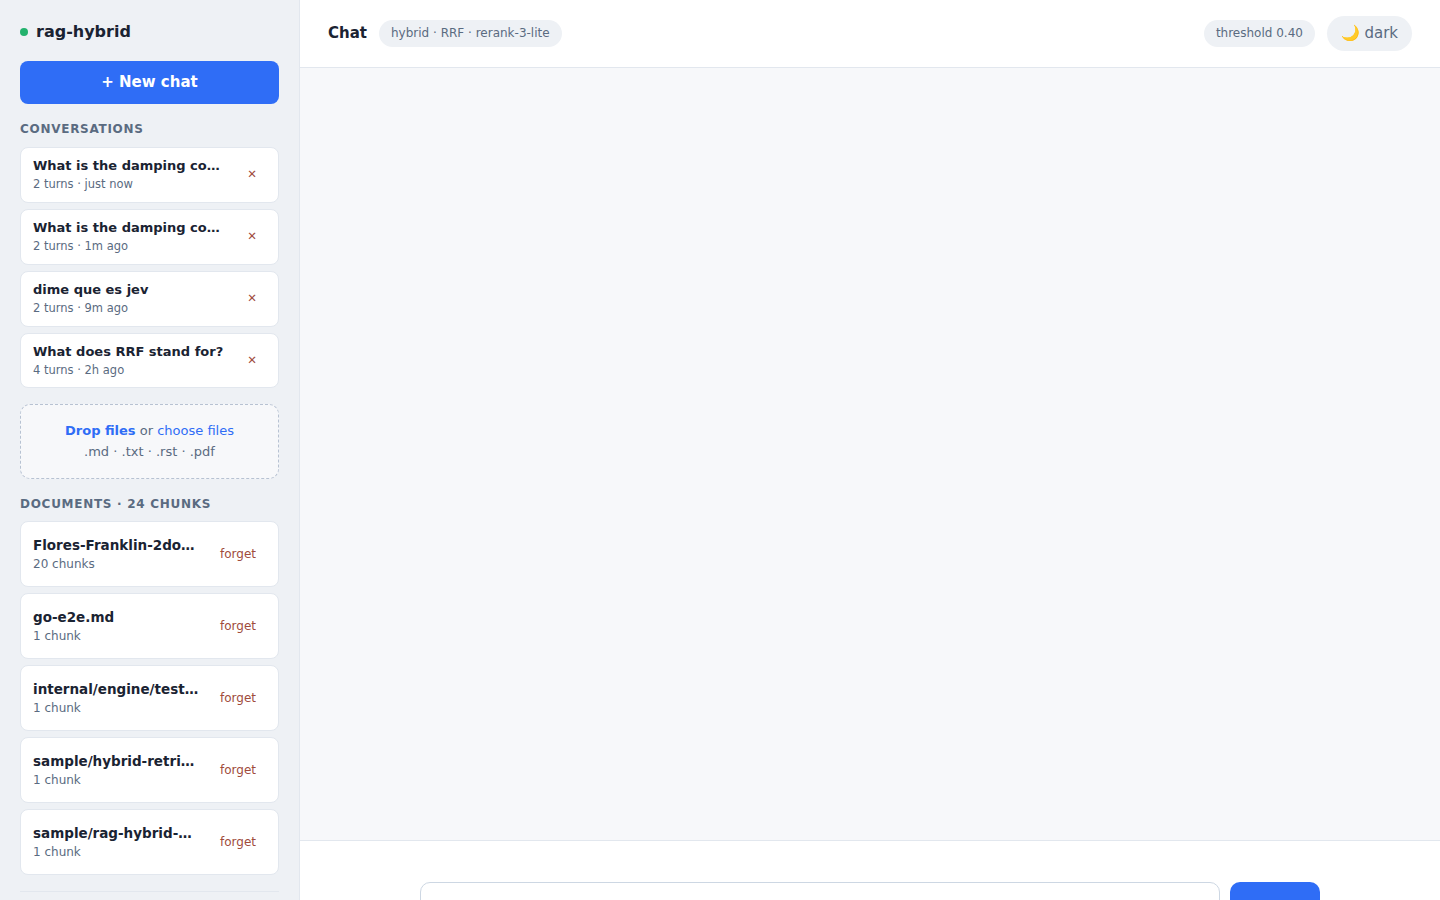
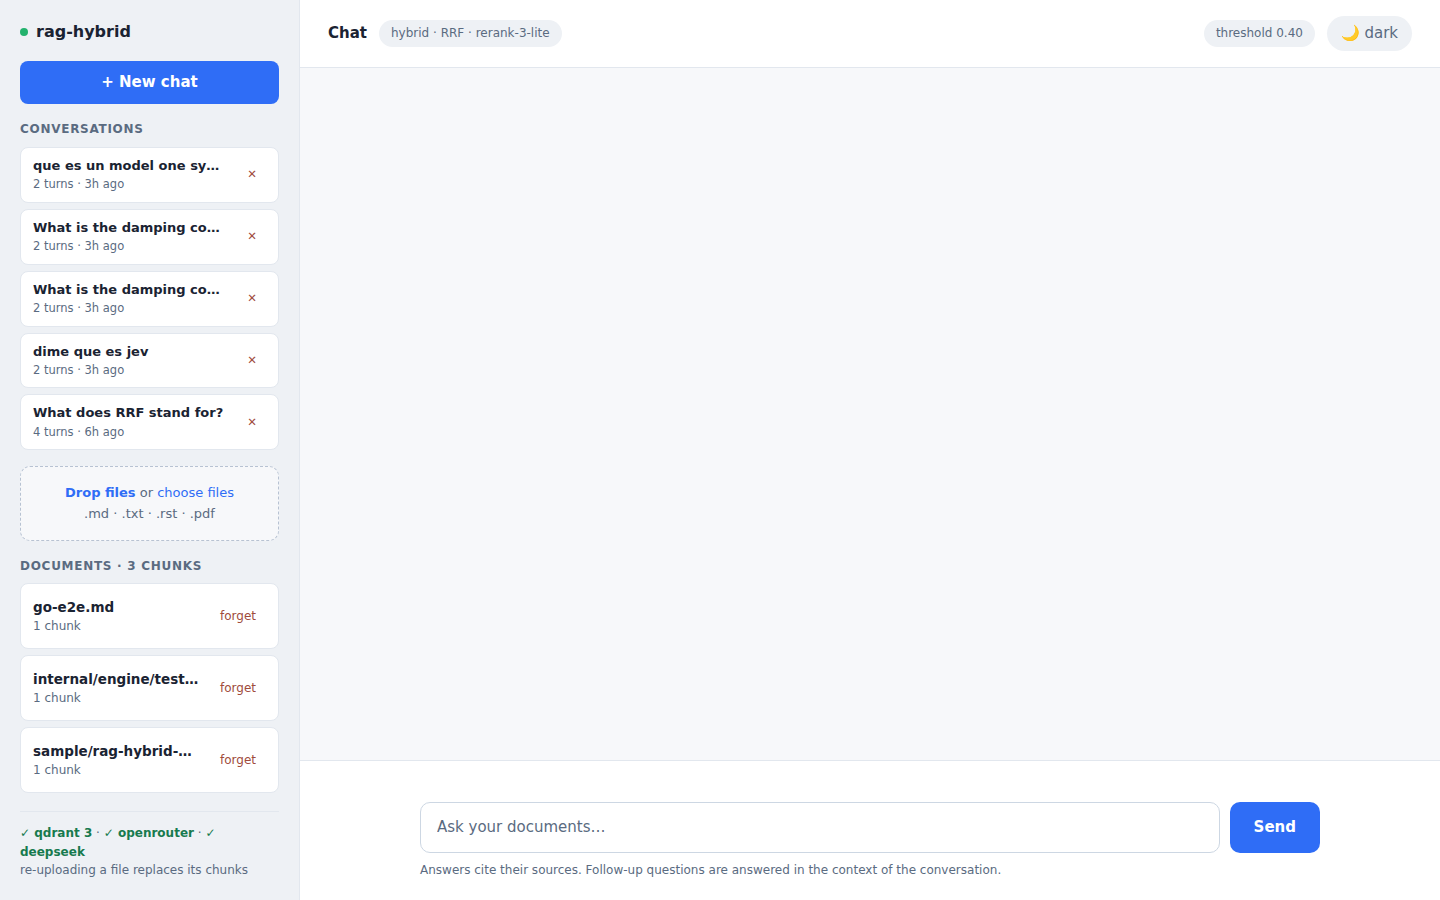
feat: type-to-confirm modal for destructive actions
Destructive UI actions (forget document, delete conversation) now open an
accessible confirmation dialog: the confirm button stays disabled until
the user types 'delete' (case-insensitive, trimmed). Escape and Cancel
close it, focus returns to the trigger, the input takes focus on open.
Also fixes a broken JS string literal from the previous patch (a Python
\n landed as a real newline inside the JS source, killing the whole UI
script; verified now with node --check + full Playwright interaction
test: modal opens, wrong word keeps it disabled, 'delete' enables,
cancel preserves data, confirm removes exactly one document).

diff --git a/internal/server/static/index.html b/internal/server/static/index.html
@@ -115,6 +115,19 @@
     padding: 12px; font-size: 12.5px; line-height: 1.5; white-space: pre-wrap;
     max-height: 300px; overflow-y: auto; margin-top: 8px;
   }
+  .overlay { position: fixed; inset: 0; background: rgba(10,16,28,.55); display: flex; align-items: center; justify-content: center; z-index: 20; }
+  .overlay[hidden] { display: none; }
+  .modal { background: var(--card); border: 1px solid var(--border); border-radius: 14px; padding: 22px; width: min(420px, 90vw); box-shadow: 0 12px 40px rgba(10,16,28,.25); }
+  .modal h3 { font-size: 16px; margin-bottom: 8px; }
+  .modal p { font-size: 14px; color: var(--muted); margin-bottom: 6px; white-space: pre-wrap; word-break: break-word; }
+  .modal .typehint { color: var(--text); }
+  .modal .typehint b { font-family: ui-monospace, monospace; }
+  .modal input { width: 100%; border: 1px solid var(--input-border); border-radius: 8px; padding: 10px 12px; font: inherit; background: var(--bg); color: var(--text); margin: 8px 0 14px; }
+  .modal-actions { display: flex; gap: 10px; justify-content: flex-end; }
+  .modal-actions button { border-radius: 8px; padding: 9px 16px; min-height: 38px; border: 1px solid var(--border); background: var(--card); color: var(--text); }
+  .modal-actions button:hover { border-color: var(--accent); }
+  .modal-actions #confirmGo { background: var(--danger); border-color: var(--danger); color: #fff; font-weight: 600; }
+  .modal-actions #confirmGo:disabled { opacity: .45; cursor: not-allowed; }
   .cursor { display: inline-block; width: 8px; height: 15px; background: var(--accent); vertical-align: text-bottom; animation: blink 1s steps(2) infinite; }
   @keyframes blink { 0% {opacity: 1} 50% {opacity: 0} 100% {opacity: 1} }
   @media (prefers-reduced-motion: reduce) { .cursor { animation: none; } }
@@ -183,6 +196,19 @@
   </div>
 </section>
 
+<div class="overlay" id="confirmOverlay" hidden>
+  <div class="modal" role="dialog" aria-modal="true" aria-labelledby="confirmTitle" aria-describedby="confirmDesc">
+    <h3 id="confirmTitle"></h3>
+    <p id="confirmDesc"></p>
+    <p class="typehint">Type <b>delete</b> to confirm.</p>
+    <input id="confirmInput" autocomplete="off" autocapitalize="none" spellcheck="false" aria-label="type delete to confirm">
+    <div class="modal-actions">
+      <button id="confirmCancel" type="button">Cancel</button>
+      <button id="confirmGo" type="button" disabled>Delete</button>
+    </div>
+  </div>
+</div>
+
 <script>
 "use strict";
 const $ = (id) => document.getElementById(id);
@@ -190,6 +216,34 @@ const log = $("log"), statusline = $("statusline"), send = $("send"), question =
 let currentConversation = null;
 
 function status(text) { statusline.textContent = text || ""; }
+
+/* type-to-confirm modal for destructive actions */
+function confirmDestructive({ title, desc, onConfirm }) {
+  const overlay = $("confirmOverlay"), input = $("confirmInput"), go = $("confirmGo");
+  const trigger = document.activeElement;
+  $("confirmTitle").textContent = title;
+  $("confirmDesc").textContent = desc;
+  input.value = "";
+  go.disabled = true;
+  overlay.hidden = false;
+  const onInput = () => { go.disabled = input.value.trim().toLowerCase() !== "delete"; };
+  const cleanup = () => {
+    overlay.hidden = true;
+    input.removeEventListener("input", onInput);
+    $("confirmCancel").removeEventListener("click", onCancel);
+    go.removeEventListener("click", onGo);
+    document.removeEventListener("keydown", onKey);
+    if (trigger && trigger.focus) trigger.focus();
+  };
+  const onCancel = () => cleanup();
+  const onGo = () => { cleanup(); onConfirm(); };
+  const onKey = (e) => { if (e.key === "Escape") cleanup(); };
+  input.addEventListener("input", onInput);
+  $("confirmCancel").addEventListener("click", onCancel);
+  go.addEventListener("click", onGo);
+  document.addEventListener("keydown", onKey);
+  input.focus();
+}
 
 /* ---------- theme ---------- */
 const themeBtn = $("theme");
@@ -281,6 +335,13 @@ for (const ev of ["dragleave", "drop"]) drop.addEventListener(ev, (e) => { e.pre
 drop.addEventListener("drop", (e) => upload(e.dataTransfer.files));
 
 async function forget(source) {
+  confirmDestructive({
+    title: "Forget document?",
+    desc: "This permanently removes every indexed chunk of:\n" + source,
+    onConfirm: () => forgetNow(source),
+  });
+}
+async function forgetNow(source) {
   status("Forgetting " + source + "…");
   try {
     const res = await fetch("/api/documents?source=" + encodeURIComponent(source), { method: "DELETE" });
@@ -318,12 +379,18 @@ function renderChats(convs) {
     meta.addEventListener("click", () => loadConversation(c.id));
     const del = document.createElement("button");
     del.className = "del"; del.textContent = "✕"; del.setAttribute("aria-label", "delete conversation " + (c.title || c.id));
-    del.addEventListener("click", async () => {
-      try {
-        await fetch("/api/conversations?id=" + encodeURIComponent(c.id), { method: "DELETE" });
-        if (currentConversation === c.id) newChat();
-        refreshChats();
-      } catch (e) { status("Error: " + e.message); }
+    del.addEventListener("click", () => {
+      confirmDestructive({
+        title: "Delete conversation?",
+        desc: "This permanently deletes the conversation:\n" + (c.title || c.id),
+        onConfirm: async () => {
+          try {
+            await fetch("/api/conversations?id=" + encodeURIComponent(c.id), { method: "DELETE" });
+            if (currentConversation === c.id) newChat();
+            refreshChats();
+          } catch (e) { status("Error: " + e.message); }
+        },
+      });
     });
     li.append(meta, del);
     list.appendChild(li);
